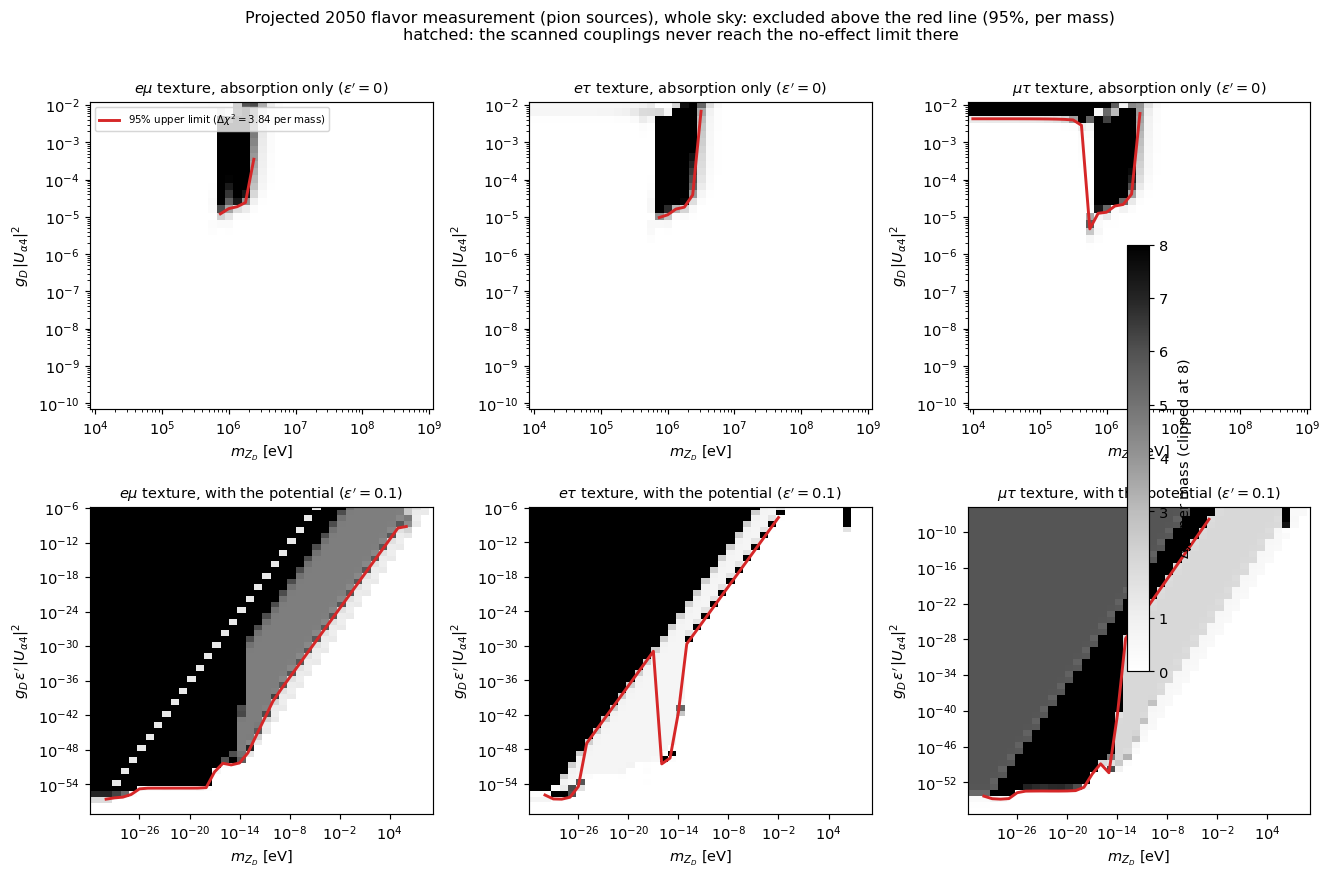
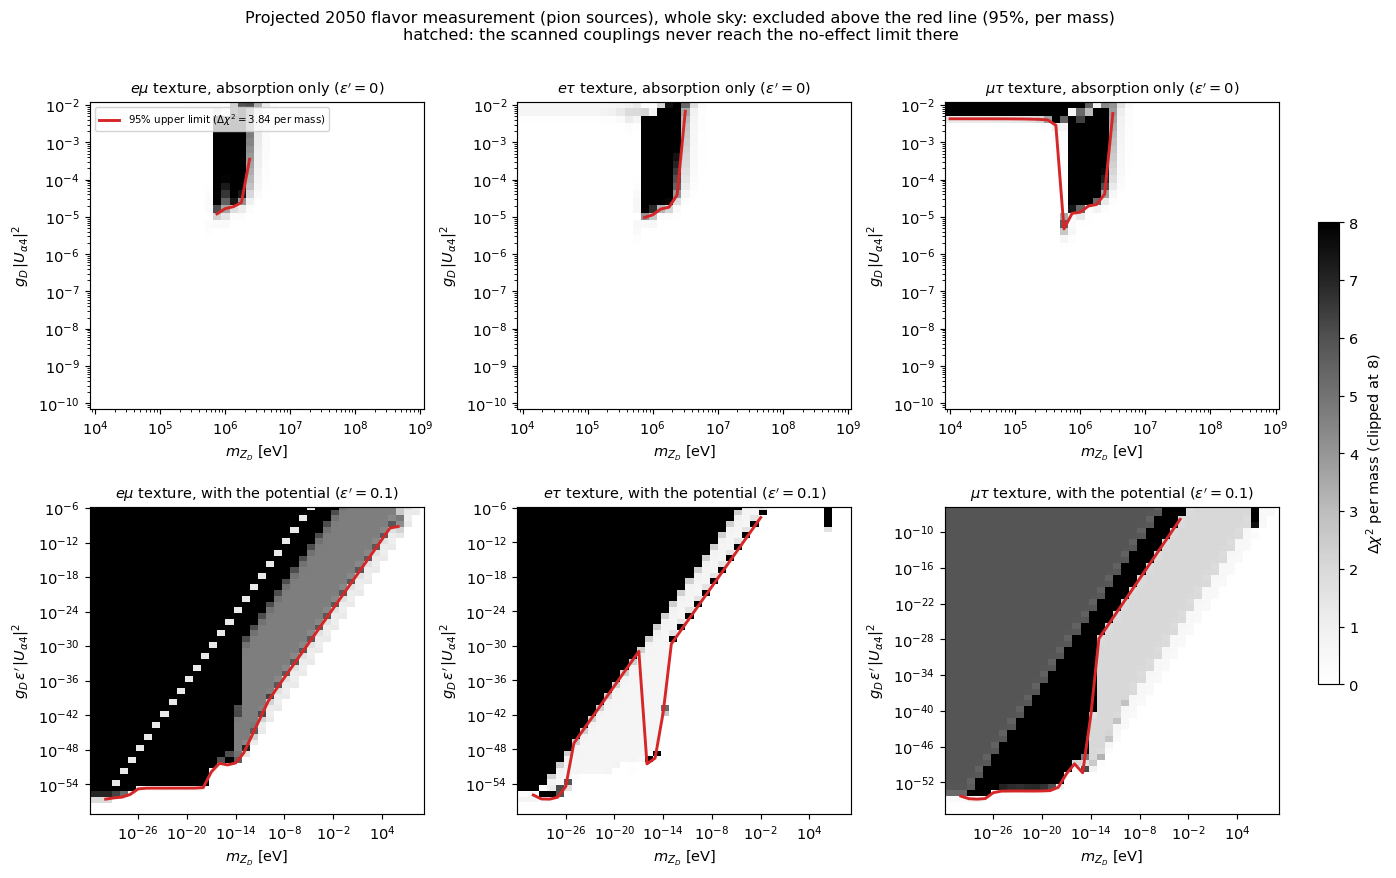
Exclusion summary figure: colorbar in its own margin

diff --git a/tools/plot_exclusion_summary.py b/tools/plot_exclusion_summary.py
@@ -47,10 +47,11 @@ for r, (reg, ylab, rtitle, yname) in enumerate(regimes):
         ax.set_title(f"{ttitle}, {rtitle}", fontsize=10)
         if r == 0 and c == 0:
             ax.legend(fontsize=7, loc="upper left")
+fig.subplots_adjust(hspace=0.32, wspace=0.28, right=0.88)
 if mesh is not None:
-    fig.colorbar(mesh, ax=axes, shrink=0.6, label=r"$\Delta\chi^2$ per mass (clipped at 8)")
+    cax = fig.add_axes([0.905, 0.25, 0.013, 0.5])
+    fig.colorbar(mesh, cax=cax, label=r"$\Delta\chi^2$ per mass (clipped at 8)")
 fig.suptitle("Projected 2050 flavor measurement (pion sources), whole sky: excluded above the red line (95%, per mass)"
              "\nhatched: the scanned couplings never reach the no-effect limit there", fontsize=11)
-fig.subplots_adjust(hspace=0.32, wspace=0.28)
 fig.savefig(out, dpi=105, bbox_inches="tight")
 print("saved", out)
